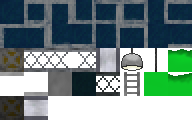
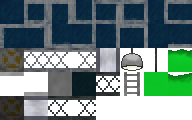
Added spritesheet data for new images

Changed region(s): [[0.25, 0.8, 0.5, 1.0]]

diff --git a/source/platforms.py b/source/platforms.py
@@ -33,10 +33,12 @@ VENT_BOTTOM = (0, 72, 24, 4)
 VENT_TOP = (24, 92, 24, 4)
 VENT = (48, 72, 24, 24)
 BACKGROUND = (72, 72, 24, 24)
-BACKGROUND_GIRDER = (96, 72, 24, 24)
+BACKGROUND_GIRDER1 = (96, 72, 24, 24)
 BACKGROUND_CRATE = (0, 96, 24, 24)
 DOOR = (96, 48, 24, 24)
 DOOR_HORIZONTAL = (24, 96, 24, 24)
+BACKGROUND_GIRDER2 = (48, 96, 24, 24)
+BACKGROUND_GIRDER3 = (72, 96, 24, 24)
 
 platforms = (
     GROUND1, GROUND2, GROUND3, GROUND4, GROUND5,
@@ -44,8 +46,9 @@ platforms = (
     GROUND11, GROUND12, GROUND13, GROUND14, GROUND15,
     GROUND16, CRATE, GIRDER1, GIRDER2, GIRDER3,
     LAMP, CHAIN, ACID_TOP, ACID, LADDER, VENT_TOP,
-    VENT_BOTTOM, VENT, BACKGROUND, BACKGROUND_GIRDER,
-    BACKGROUND_CRATE, DOOR, DOOR_HORIZONTAL
+    VENT_BOTTOM, VENT, BACKGROUND, BACKGROUND_GIRDER1,
+    BACKGROUND_CRATE, DOOR, DOOR_HORIZONTAL,
+    BACKGROUND_GIRDER1, BACKGROUND_GIRDER2
 )
 
 
